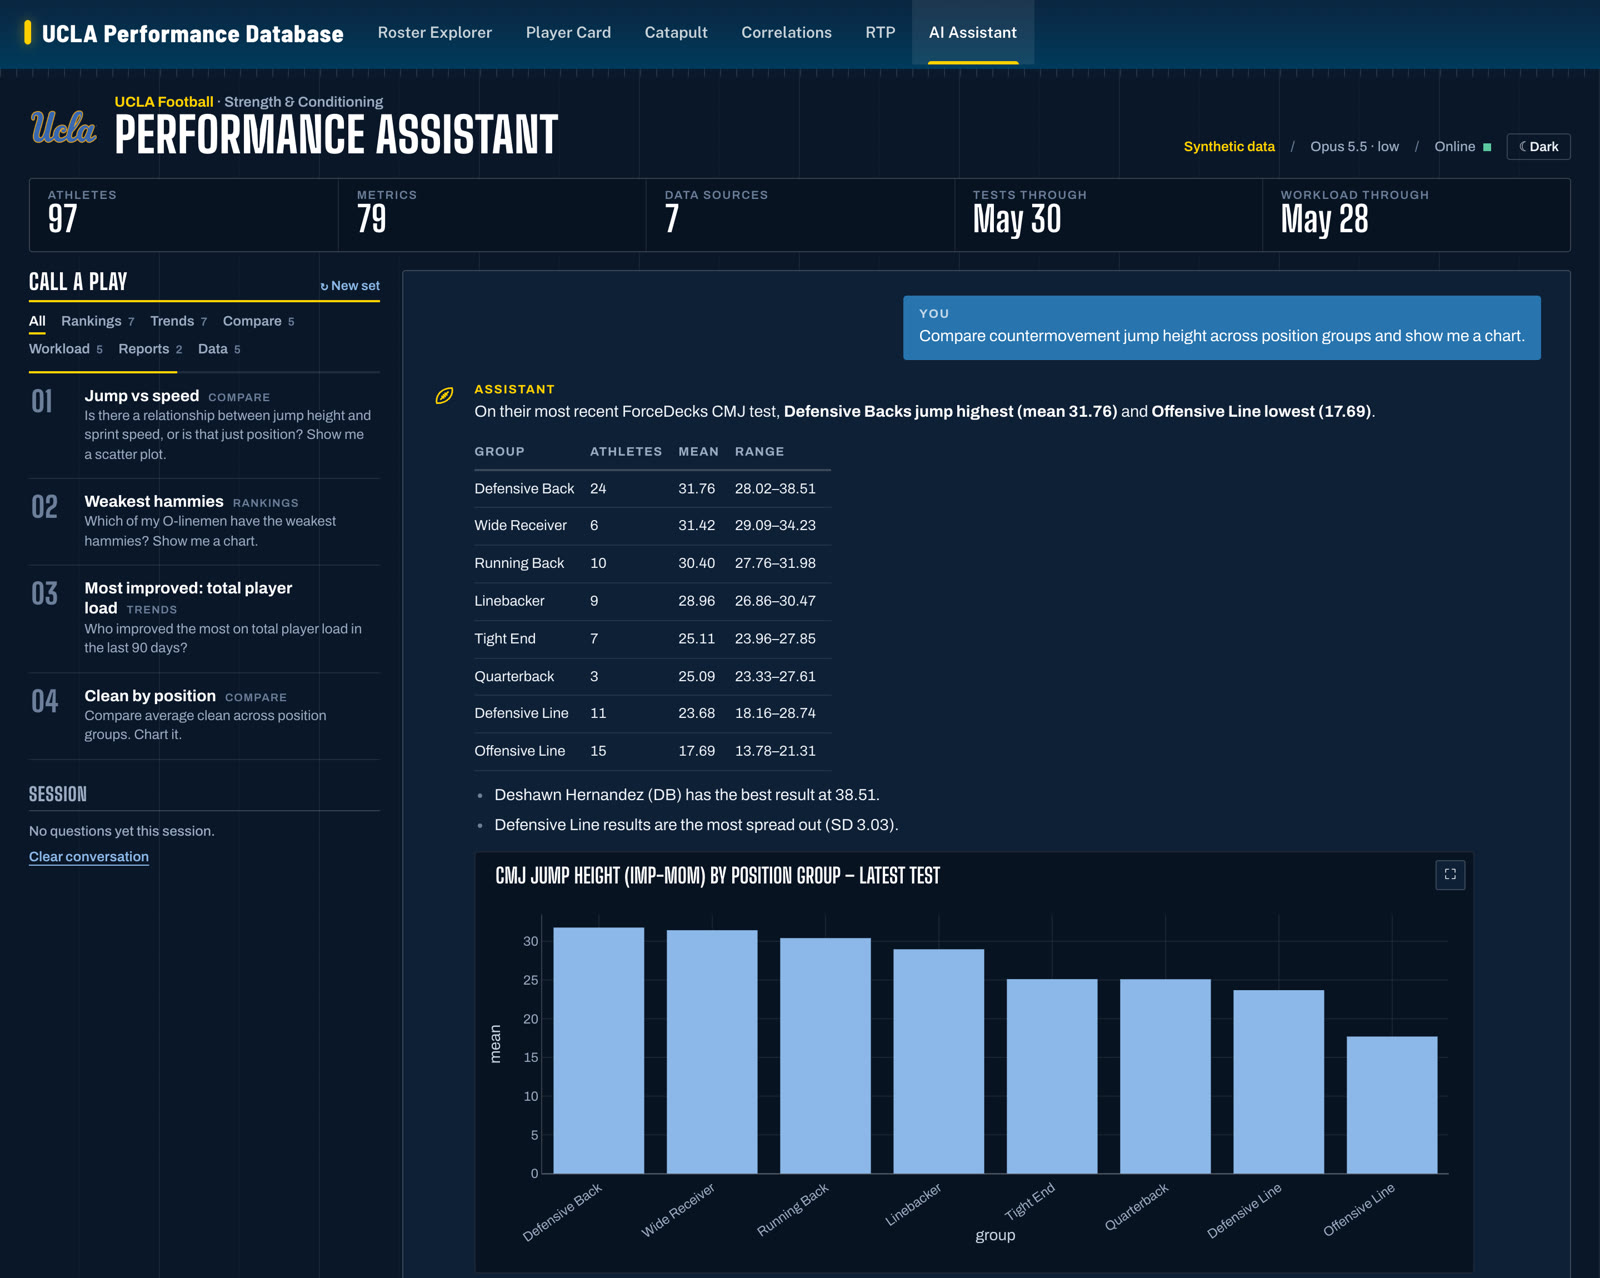
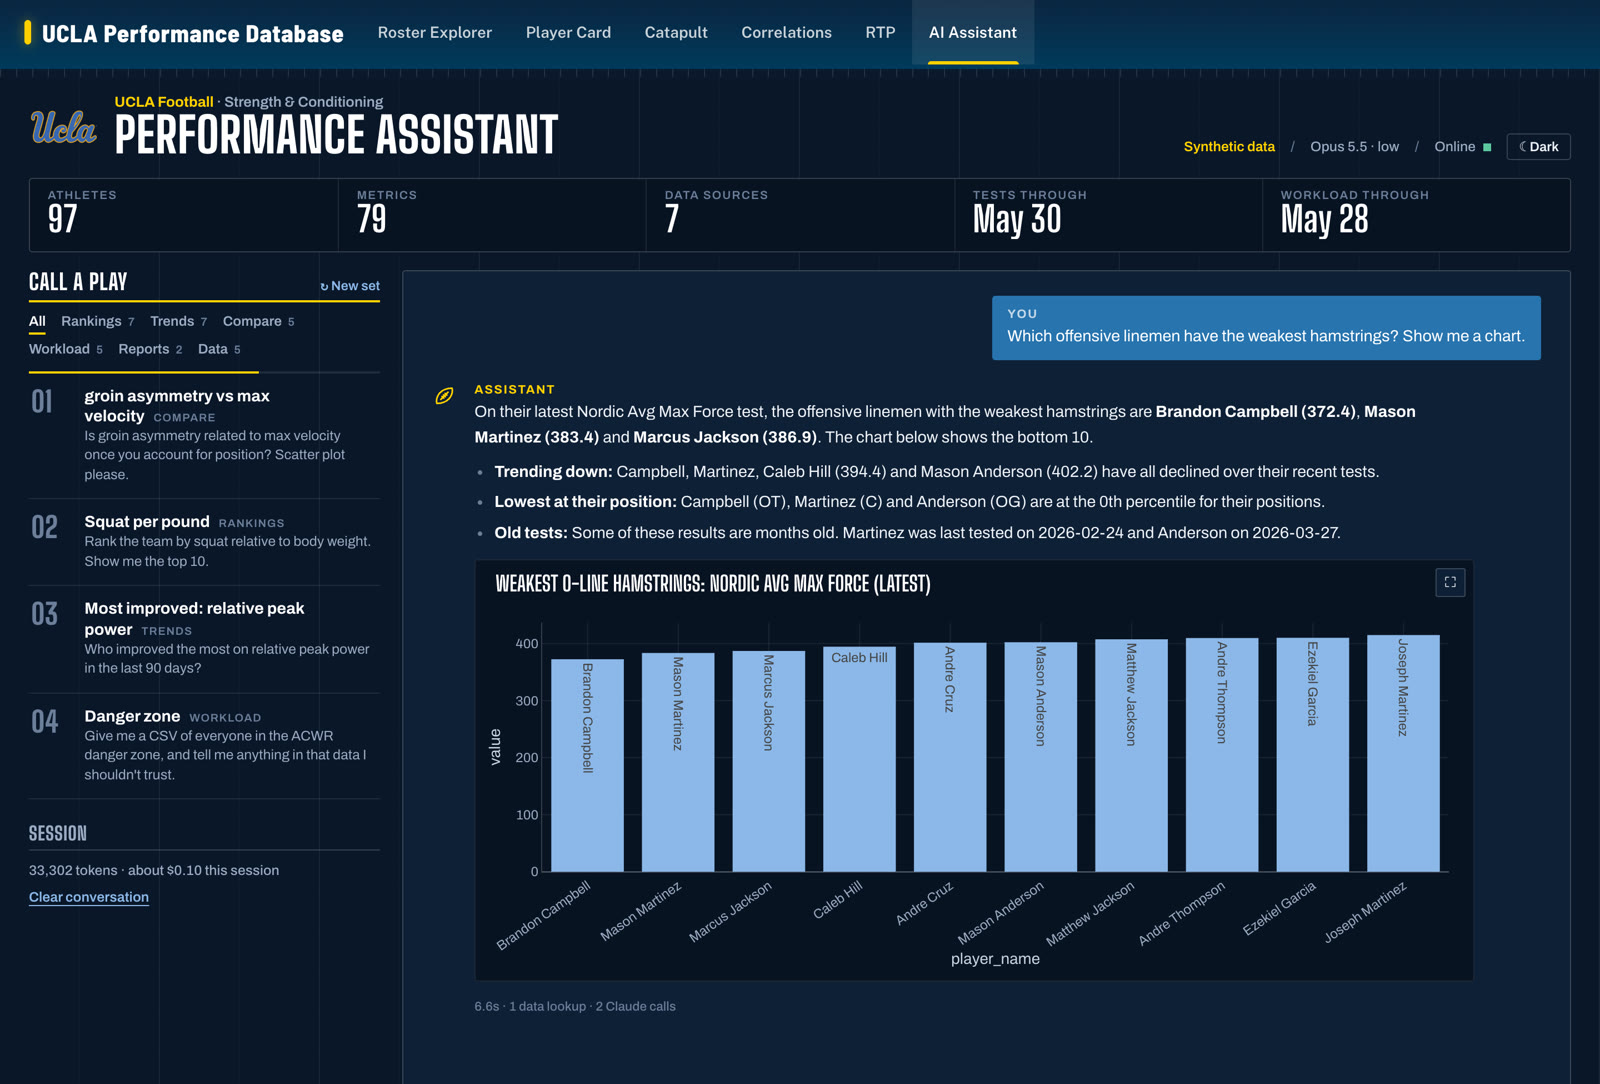
Blue/gold team palette, filters show every match, live AI chat screenshot, real JournalToData dashboard, new resume

diff --git a/src/data/entries.ts b/src/data/entries.ts
@@ -45,7 +45,7 @@ export const entries: Entry[] = [
     starter: true,
     cats: ['sports', 'ai'],
     plate: 'ai',
-    pic: { kind: 'img', src: '/thumbs/ucla-football-ai-assistant.jpg', alt: 'UCLA Performance Assistant answering a jump-height comparison by position group with a table and bar chart' , caption: 'Asked live: “Compare countermovement jump height across position groups and show me a chart.” Answered in 8 s, on synthetic data.' },
+    pic: { kind: 'img', src: '/thumbs/ucla-football-ai-assistant.jpg', alt: 'A coach question in the chat (Which offensive linemen have the weakest hamstrings? Show me a chart.) and the assistant answer with a bar chart' , caption: 'Asked live in the chat: “Which offensive linemen have the weakest hamstrings? Show me a chart.” Answered in 6.6 s, on synthetic data.' },
     video: { src: '/media/ai-assistant.mp4', poster: '/media/ai-assistant-poster.jpg', label: 'Screen recording of the AI Assistant answering four coach questions with charts and a CSV, on synthetic data' },
     when: '2026',
     where: 'UCLA Football strength staff, via Bruin Sports Analytics',
@@ -64,7 +64,7 @@ export const entries: Entry[] = [
     ],
     links: [{ href: '#demo', label: 'Watch demo' }],
     note: 'Recorded on synthetic data. Every athlete name and number is fake.',
-    figures: [{ src: '/img/ai-assistant-answer.jpg', alt: 'Full Performance Assistant screen: the question, a table of jump height by position group, and a bar chart', caption: 'The full answer screen.', w: 1600, h: 1278, wide: true }],
+    figures: [{ src: '/img/ai-assistant-answer.jpg', alt: 'Full Performance Assistant screen: the coach question, the written answer, and a bar chart', caption: 'The full screen: question on the right, answer and chart below.', w: 1600, h: 1084, wide: true }],
   },
   {
     slug: 'nfl-overtime-4th-down',
@@ -193,7 +193,7 @@ export const entries: Entry[] = [
       'Sleep and mood barely move together (r = −0.12); gym days and rest days had the same mood',
     ],
     links: [{ href: 'https://github.com/EshaanDhavala/Journal-to-Data-Base', label: 'Code' }],
-    pic: { kind: 'img', src: '/thumbs/journal-to-data.jpg', alt: "The JournalToData app's Ask Your Data tab" , caption: 'The app’s Ask Your Data tab. Its example question is real.' },
+    pic: { kind: 'img', src: '/thumbs/journal-to-data.jpg', alt: "The JournalToData dashboard: mood, study hours, screen time, workouts, and habits over Feb to June 2026" , caption: 'The real dashboard (my photo and weight cropped out).' },
     charts: ['journal-dow', 'journal'],
   },
   {

diff --git a/src/styles/game.css b/src/styles/game.css
@@ -1,19 +1,20 @@
-/* Sports-game theme: warm charcoal, stadium-signage type, one solid accent for actions only. */
+/* Sports-game theme: night navy, stadium-signage type, gold for actions, blue for numbers. */
 :root {
-  --bg: #141311;
-  --bg-2: #1a1916;
-  --panel: #1c1b18;
-  --panel-2: #26241f;
-  --line: #34312b;
-  --ink: #f1ede4;
-  --ink-2: #a9a397;
-  --lime: #e2572b;
-  --on-lime: #fffaf2;
+  --bg: #0f1724;
+  --bg-2: #132034;
+  --panel: #16233a;
+  --panel-2: #1d2d48;
+  --line: #2a3b58;
+  --ink: #f3efe6;
+  --ink-2: #a9b4c6;
+  --lime: #f2b33d;        /* gold: actions + selected only */
+  --on-lime: #14110a;
+  --blue: #7fb2e5;        /* blue: numbers + highlights */
   --k-sports: var(--ink);
   --k-ai: var(--ink);
   --k-stats: var(--ink);
   /* chart + widget hooks used by shared components */
-  --violet: var(--ink);
+  --violet: var(--blue);
   --sauce: var(--lime);
   --r: 16px;
   --display: 'Big Shoulders Display', 'Arial Narrow', sans-serif;
@@ -23,6 +24,7 @@
 }
 
 *, *::before, *::after { box-sizing: border-box; }
+[hidden] { display: none !important; }
 html { -webkit-text-size-adjust: 100%; background: var(--bg); scroll-padding-top: 80px; }
 @media (prefers-reduced-motion: no-preference) { html { scroll-behavior: smooth; } }
 body { margin: 0; background: var(--bg); color: var(--ink); font-family: var(--body); font-size: 1.0625rem; line-height: 1.55; font-variant-numeric: tabular-nums; -webkit-font-smoothing: antialiased; overflow-x: clip; }
@@ -47,7 +49,7 @@ ul, ol { padding: 0; }
 }
 .btn:active { transform: scale(0.97); }
 .btn-lime { background: var(--lime); color: var(--on-lime); }
-.btn-lime:hover { background: #f06a3f; }
+.btn-lime:hover { background: #f7c25e; }
 .btn-line { color: var(--ink); box-shadow: inset 0 0 0 2px var(--line); background: rgba(255, 255, 255, 0.02); }
 .btn-line:hover { box-shadow: inset 0 0 0 2px var(--lime); }
 
@@ -58,7 +60,7 @@ ul, ol { padding: 0; }
 [data-reveal] { will-change: transform, opacity; }
 
 ::-webkit-scrollbar { width: 10px; height: 10px; }
-::-webkit-scrollbar-thumb { background: #3a372f; border-radius: 10px; border: 2px solid var(--bg); }
+::-webkit-scrollbar-thumb { background: #2a3b58; border-radius: 10px; border: 2px solid var(--bg); }
 ::-webkit-scrollbar-track { background: transparent; }
 
 @view-transition { navigation: auto; }

diff --git a/src/scripts/game-motion.ts b/src/scripts/game-motion.ts
@@ -19,12 +19,18 @@ function setupFilter() {
     let n = 0;
     cards.forEach((c) => { const show = f === 'all' || c.dataset.cats!.split(' ').includes(f); c.hidden = !show; if (show) n++; });
     if (count) count.textContent = `${n} ${n === 1 ? 'project' : 'projects'}`;
-    document.querySelectorAll<HTMLElement>('[data-list]').forEach((list) => {
-      const any = [...list.querySelectorAll<HTMLElement>('[data-card]')].some((c) => !c.hidden);
-      list.hidden = !any;
-      const head = list.previousElementSibling as HTMLElement | null;
-      if (head?.matches('[data-group]')) head.hidden = !any;
-    });
+    // Filtered: one grid of every match right under the tabs (no lineup/roster split, no widget in between).
+    const filtered = f !== 'all';
+    document.documentElement.toggleAttribute('data-filtered', filtered);
+    const starters = document.querySelector<HTMLElement>('[data-list="starters"]');
+    const roster = document.querySelector<HTMLElement>('[data-list="roster"]');
+    if (starters && roster) {
+      const home = filtered ? starters : roster;
+      roster.querySelectorAll<HTMLElement>('.cell').forEach((c) => { if (filtered) starters.append(c); });
+      if (!filtered) starters.querySelectorAll<HTMLElement>('.cell[data-bench]').forEach((c) => roster.append(c));
+      void home;
+    }
+    document.querySelectorAll<HTMLElement>('[data-group], [data-spot], .roster').forEach((el) => (el.hidden = filtered));
     if (push) { const u = new URL(location.href); f === 'all' ? u.searchParams.delete('cat') : u.searchParams.set('cat', f); history.replaceState(null, '', u); }
     if (!reduce) gsap.fromTo(cards.filter((c) => !c.hidden), { y: 18, opacity: 0 }, { y: 0, opacity: 1, duration: 0.5, ease: 'expo.out', stagger: 0.04, overwrite: true });
     ScrollTrigger.refresh();

diff --git a/DESIGN.md b/DESIGN.md
@@ -2,15 +2,16 @@
 name: Eshaan Dhavala
 description: Portfolio styled like a sports video game's menus. Title screen, project select, player profile.
 colors:
-  bg: "#141311"
-  bg-2: "#1a1916"
-  panel: "#1c1b18"
-  panel-2: "#26241f"
-  line: "#34312b"
-  ink: "#f1ede4"
-  ink-2: "#a9a397"
-  accent: "#e2572b"
-  on-accent: "#fffaf2"
+  bg: "#0f1724"
+  bg-2: "#132034"
+  panel: "#16233a"
+  panel-2: "#1d2d48"
+  line: "#2a3b58"
+  ink: "#f3efe6"
+  ink-2: "#a9b4c6"
+  accent: "#f2b33d"
+  on-accent: "#14110a"
+  blue: "#7fb2e5"
 typography:
   display:
     fontFamily: "Big Shoulders Display, Arial Narrow, sans-serif"
@@ -82,14 +83,16 @@ components:
 
 **Creative North Star: "Select Your Project"**
 
-A sports game's menu system (title screen, project select with a starting lineup and roster, player profile), drawn with restraint: warm charcoal ground, warm off-white type, upright stadium-signage display face, and one solid accent used only for actions. Real artifacts carry the color; the chrome does not. No glows, gradients, neon, or per-category colour coding (removed Oct 2026 at Eshaan's request: they read as generic AI design).
+A sports game's menu system (title screen, project select with a starting lineup and roster, player profile), drawn with restraint: night-navy ground, warm off-white type, upright stadium-signage display face, gold for actions and blue for numbers. Real artifacts carry the color; the chrome does not. No glows, gradients, neon, or per-category colour coding (removed Oct 2026 at Eshaan's request: they read as generic AI design).
 
 ## Colors
-- **Charcoal** #141311 ground; **Panel** #1c1b18; **Line** #34312b dividers and 1px insets.
-- **Ink** #f1ede4 text and headline numbers; **Ink 2** #a9a397 secondary text.
-- **Signal Orange** #e2572b: primary buttons, the selected tab underline, the results bullet. Nothing else.
+Muted team palette: night navy with two roles, never more.
+- **Night** #0f1724 ground; **Panel** #16233a; **Line** #2a3b58.
+- **Ink** #f3efe6 text; **Ink 2** #a9b4c6 secondary.
+- **Gold** #f2b33d: actions and the selected tab only.
+- **Blue** #7fb2e5: big numbers, the second word of the name, section highlights, chart bars, field lines.
 
-**The One Accent Rule.** Orange means "act here". Categories, stats and headings stay ink.
+**The Two Roles Rule.** Gold = do something. Blue = look at this number. No per-category colours, no glow, no gradients.
 
 ## Typography
 - **Display:** Big Shoulders Display 700–900, upright, uppercase. Name, section heads, card names, big numbers.
